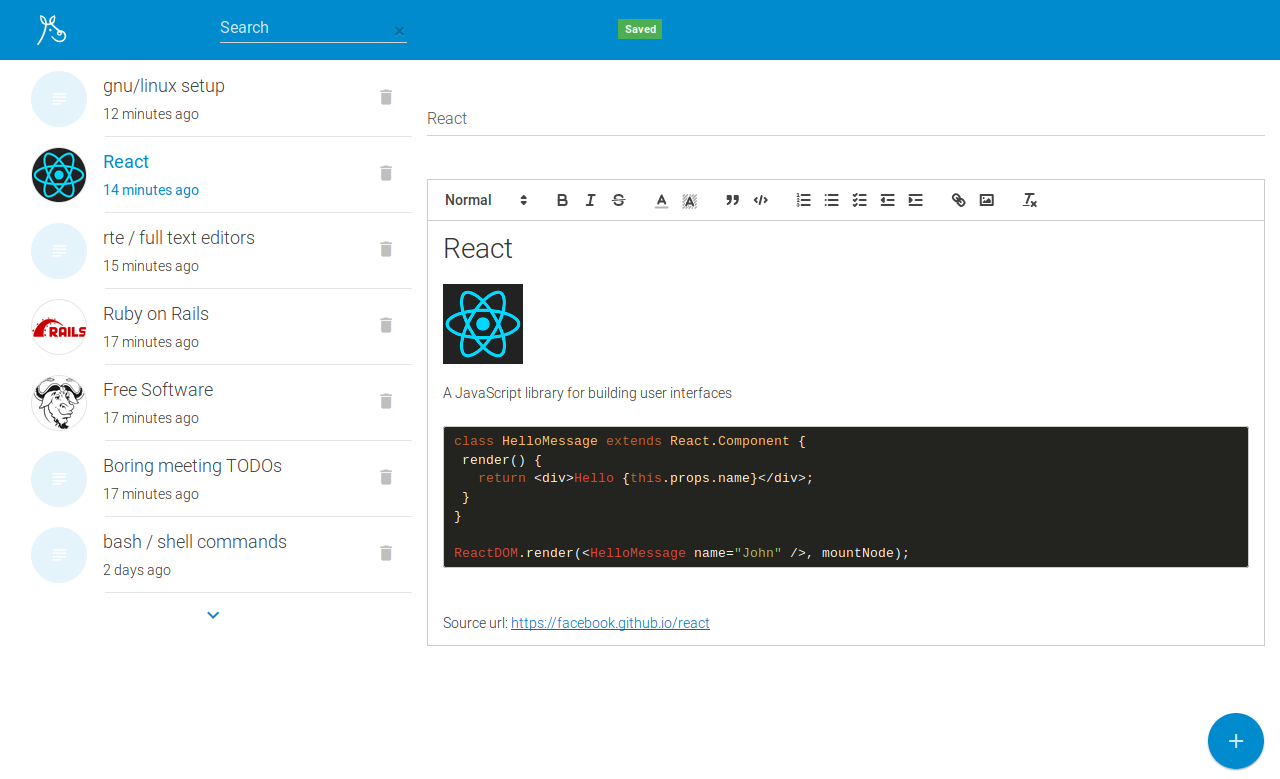
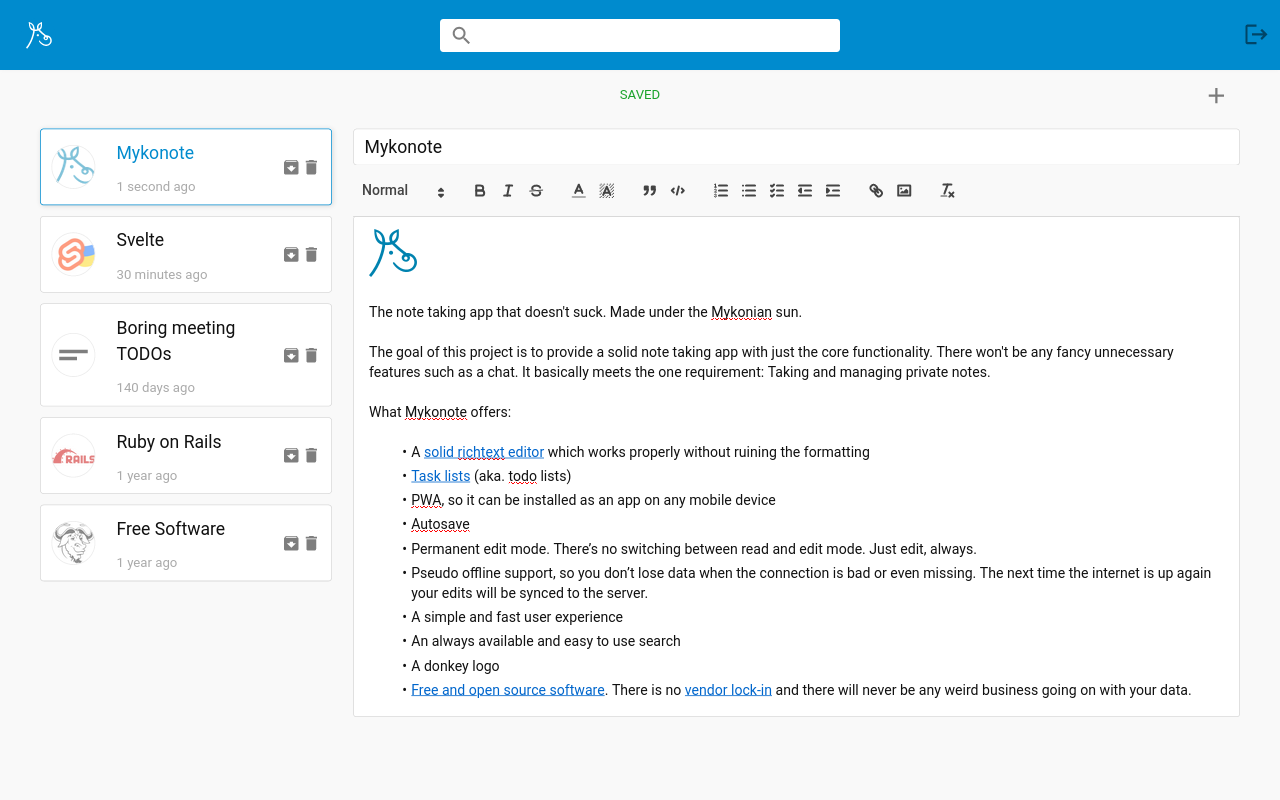
update README to reflect the newest version
- The screenshot are outdated, ever since https://github.com/koffeinfrei/mykonote/pull/383
- Add some more points to the feature list, and remove the mobile app
- Extend the copyright to include myself

diff --git a/README.md b/README.md
@@ -4,26 +4,16 @@
 
 # Mykonote [/ˈmɪkəˌnəʊt/]
 
-*You can register for a free account at
-[mykonote.com](https://app.mykonote.com/#/register) or within the Android
-[mobile app](https://github.com/panter/mykonote-app), which is available on
-[Google Play](https://play.google.com/store/apps/details?id=com.mykonote).*
-<br>
-*The free account is limited to 100 notes.*
-
-<a
-  href='https://play.google.com/store/apps/details?id=com.mykonote&pcampaignid=MKT-Other-global-all-co-prtnr-py-PartBadge-Mar2515-1'>
-  <img
-    alt='Get it on Google Play'
-    src='https://play.google.com/intl/en_us/badges/images/generic/en_badge_web_generic.png'
-    height="60px" />
-</a>
-
----
+**Full / Desktop view**
 
 ![desktop](screenshot_desktop.png)
 
+**Mobile / PWA note view**
+
 ![mobile note](screenshot_mobile_1.png)
+
+**Mobile / PWA list view**
+
 ![mobile list](screenshot_mobile_2.png)
 
 The note taking app that doesn't suck. Made under the Mykonian sun.
@@ -39,8 +29,10 @@ What Mykonote offers:
   ruining the formatting
 * [Task lists](https://github.com/koffeinfrei/quill-task-list) (aka. todo
   lists)
-* Mobile support
-* [A mobile app](https://github.com/panter/mykonote-app)
+* PWA, so it can be installed as an app on any mobile device
+* Autosave
+* Permanent edit mode. There's no switching between read and edit mode. Just
+  edit, always.
 * Pseudo offline support, so you don't lose data when the connection is bad or even
   missing. The next time the internet is up again your edits will be synced to
   the server.
@@ -103,6 +95,7 @@ To create the new changelog entries just issue the following command:
 
 ## License
 
+    Copyright 2016 Alexis Reigel <mail@koffeinfrei.org>
     Copyright 2016 Panter AG <info@panter.ch>
 
     This program is free software: you can redistribute it and/or modify
